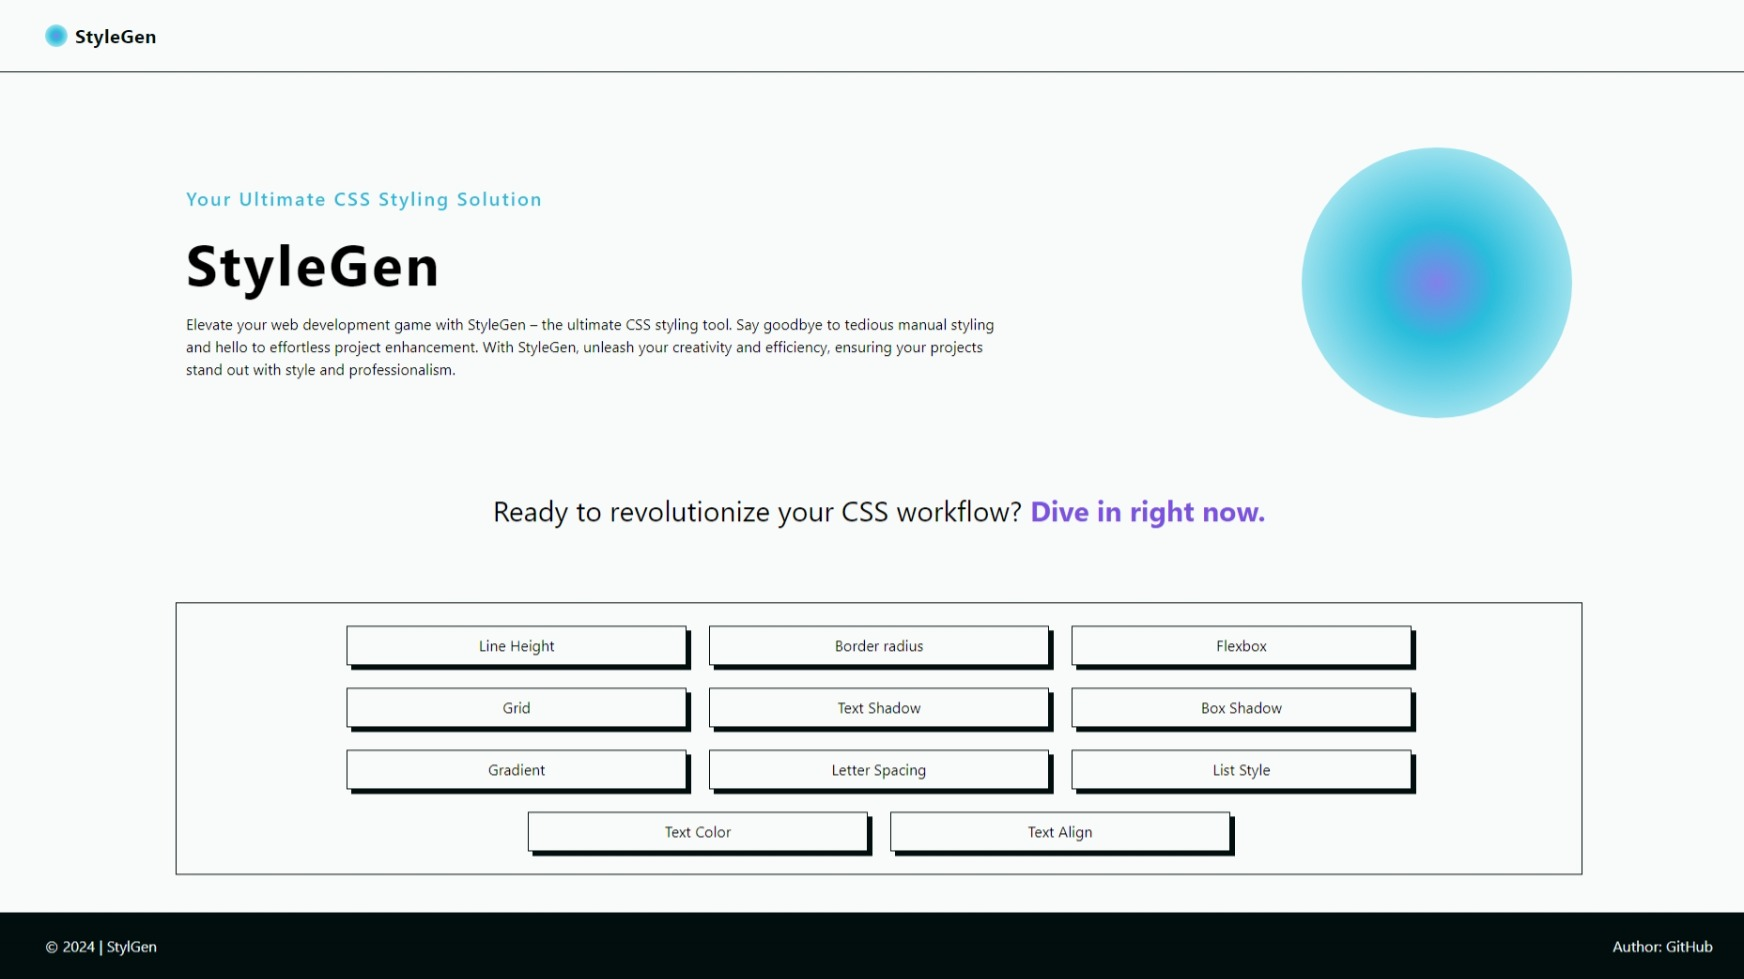
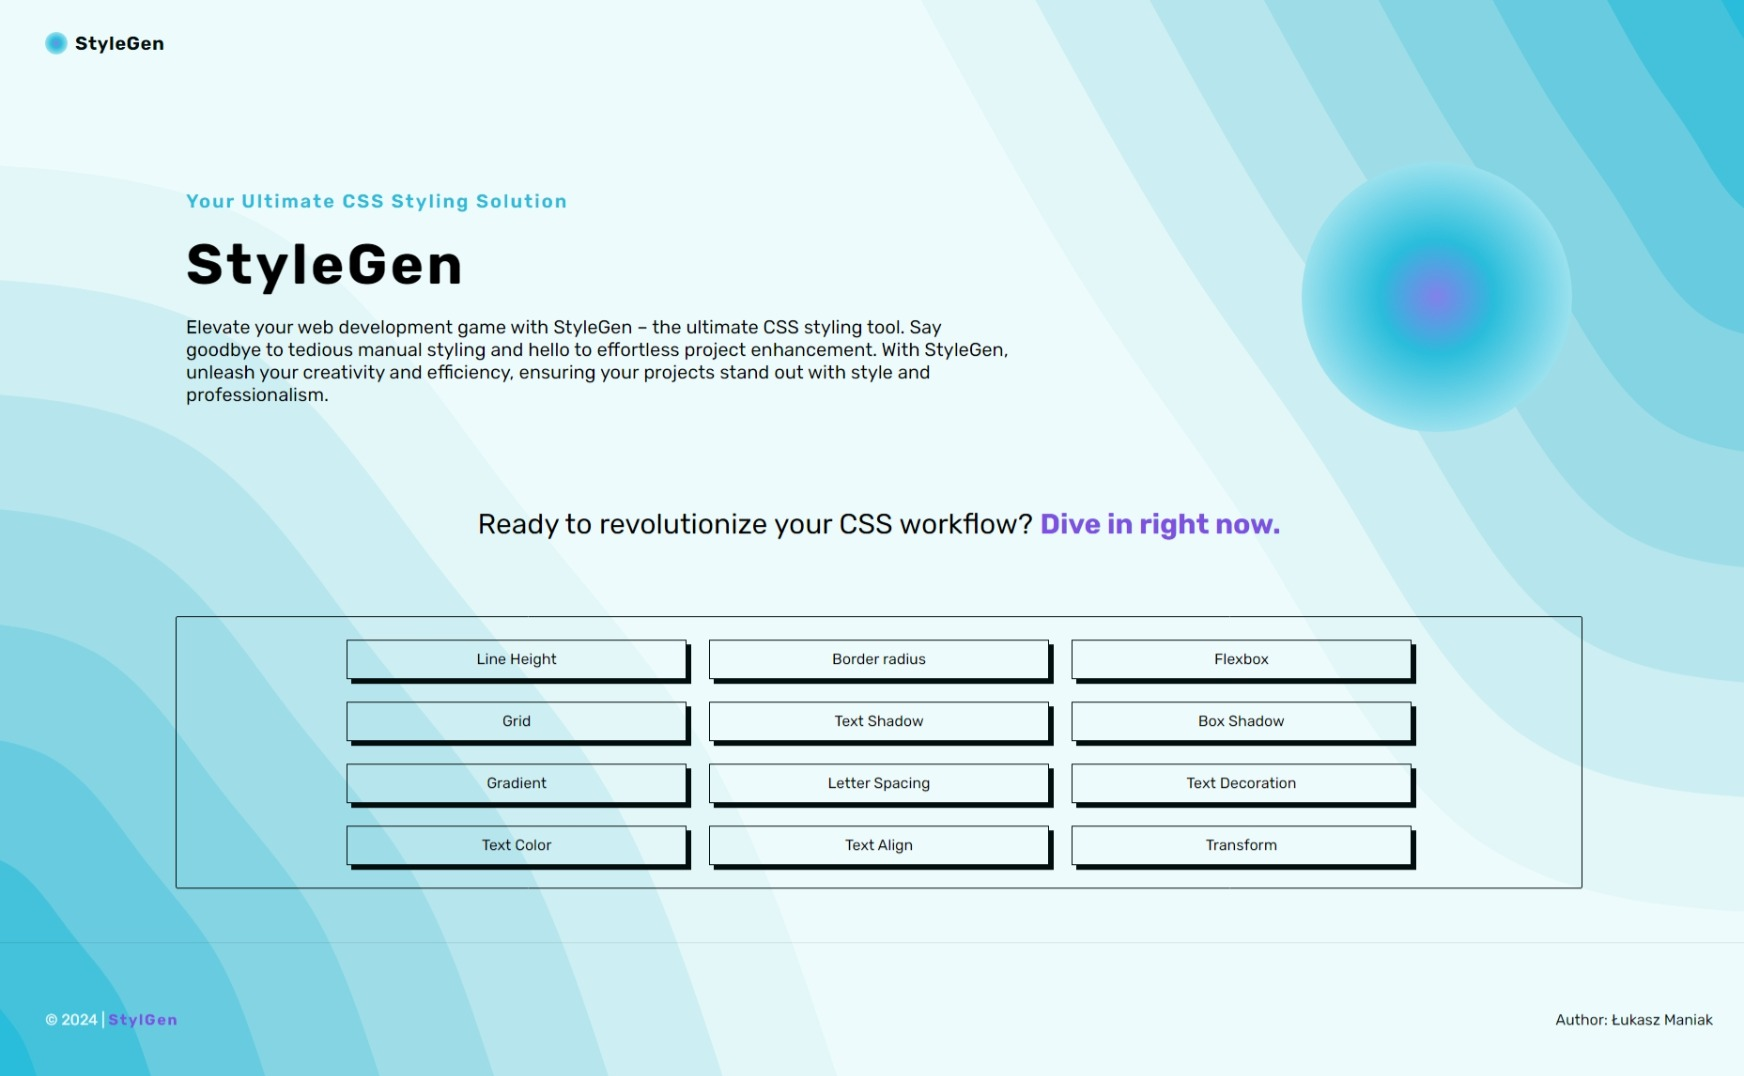
main

diff --git a/src/ui/Footer.jsx b/src/ui/Footer.jsx
@@ -1,13 +1,13 @@
 function Footer() {
   return (
-    <footer className="mt-10 flex w-full  flex-row items-center justify-between bg-text px-12 py-12 text-background">
+    <footer className="mt-10 flex w-full  flex-row items-center justify-between  px-12 py-12 text-background">
       <p>
         © 2024 | <b className="tracking-widest text-accent">StylGen</b>
       </p>
-      <div>
+      <div className="text-text">
         Author:{" "}
         <a
-          className="transition-all duration-200 ease-in-out hover:text-accent "
+          className="text-text transition-all duration-200 ease-in-out hover:text-accent "
           href="https://github.com/LukaszManiak"
         >
           Łukasz Maniak

diff --git a/src/ui/LinksList.jsx b/src/ui/LinksList.jsx
@@ -3,7 +3,7 @@ import { Link } from "react-router-dom";
 function LinksList() {
   return (
     <div className="mb-10 flex w-full items-center justify-center">
-      <div className="flex w-4/5 flex-wrap justify-center gap-x-6  gap-y-6  border border-text p-4 md:p-6">
+      <div className="flex w-4/5 flex-wrap justify-center gap-x-6 gap-y-6  rounded-sm  border border-text p-4 md:p-6">
         <Link
           className="flex w-auto items-center justify-center border border-text px-4 py-2 text-center shadow-customShadow shadow-text transition-all ease-out  hover:shadow-none md:w-1/4"
           to="/line-height"

diff --git a/src/index.css b/src/index.css
@@ -10,4 +10,14 @@ html {
 
 body {
   background-color: #f9fbfb;
+  background-image: url("../src/images/blob.svg");
+  background-size: cover;
+  background-repeat: no-repeat;
+  background-position: bottom center;
+  background-attachment: sticky;
+}
+@media only screen and (max-width: 768px) {
+  body {
+    background-image: url("../src/images/blob-mobile.svg");
+  }
 }

diff --git a/src/ui/Header.jsx b/src/ui/Header.jsx
@@ -1,7 +1,7 @@
 function Header() {
   return (
     <header>
-      <nav className=" bg-backround w-full border-b border-text px-12 py-8">
+      <nav className=" bg-backround w-full  px-12 py-8">
         <div className="flex items-center gap-x-2">
           <div
             style={{

diff --git a/README.md b/README.md
@@ -48,7 +48,7 @@ StylGen was conceptualized to alleviate the common pain points developers face w
 ### Screenshot
 
 ![Screenshot 1](/screenshots/screen1.jpeg?raw=true "Screenshot 1")
-![Screenshot 5](/screenshots/screen5.jpeg?raw=true "Screenshot 5")
-![Screenshot 2](/screenshots/screen2.jpeg?raw=true "Screenshot 2")
-![Screenshot 3](/screenshots/screen3.jpeg?raw=true "Screenshot 3")
-![Screenshot 4](/screenshots/screen4.jpeg?raw=true "Screenshot 4")
+![Screenshot 5](/screenshots/screen5.jpeg?raw=true "Screenshot 2")
+![Screenshot 2](/screenshots/screen2.jpeg?raw=true "Screenshot 3")
+![Screenshot 3](/screenshots/screen3.jpeg?raw=true "Screenshot 4")
+![Screenshot 4](/screenshots/screen4.jpeg?raw=true "Screenshot 5")
